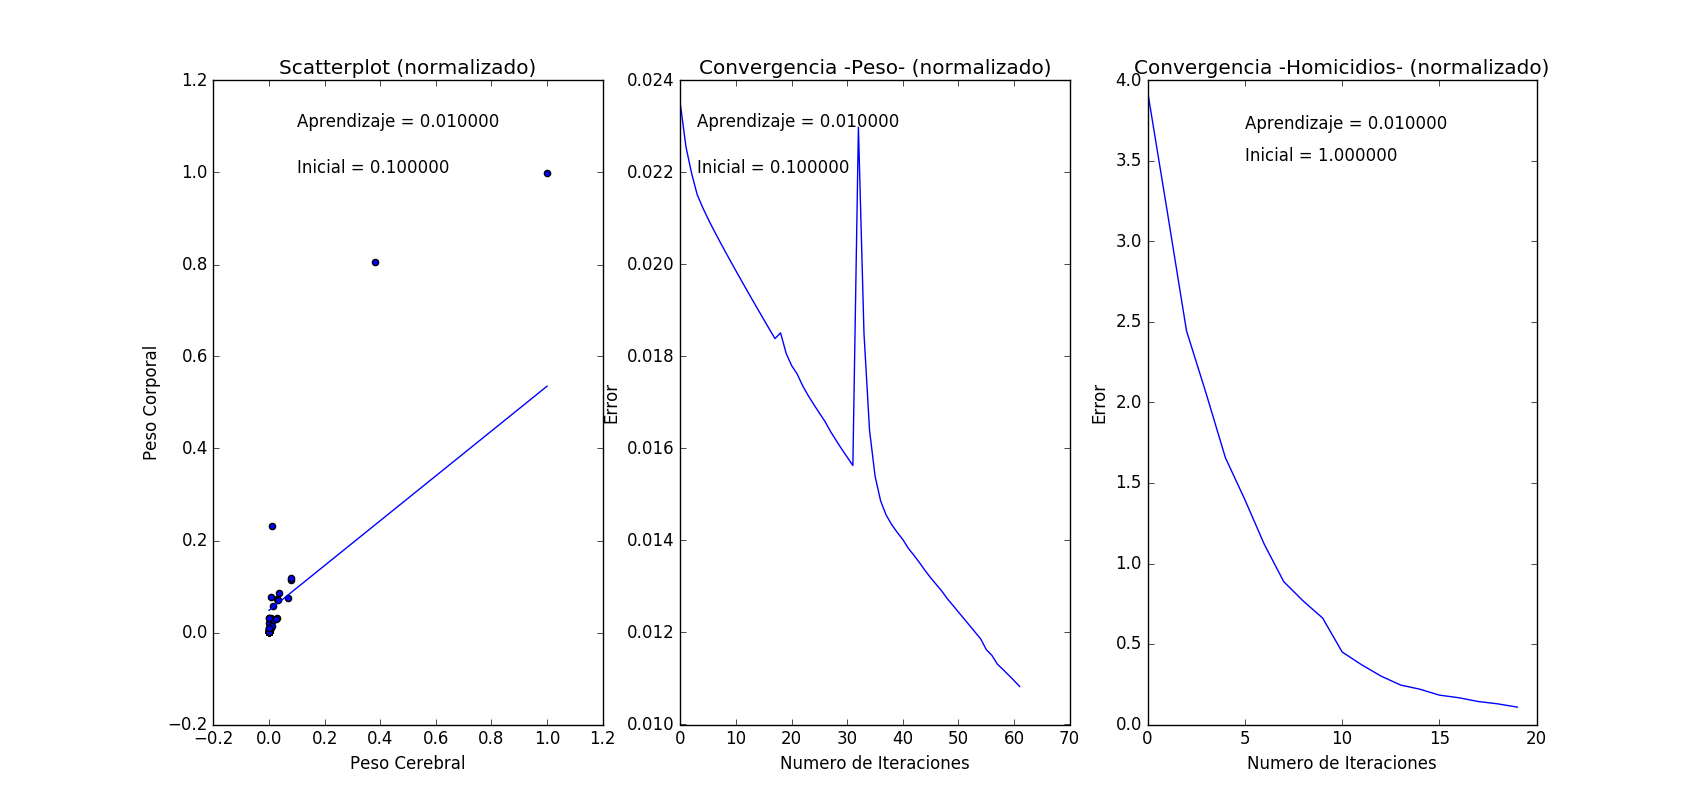
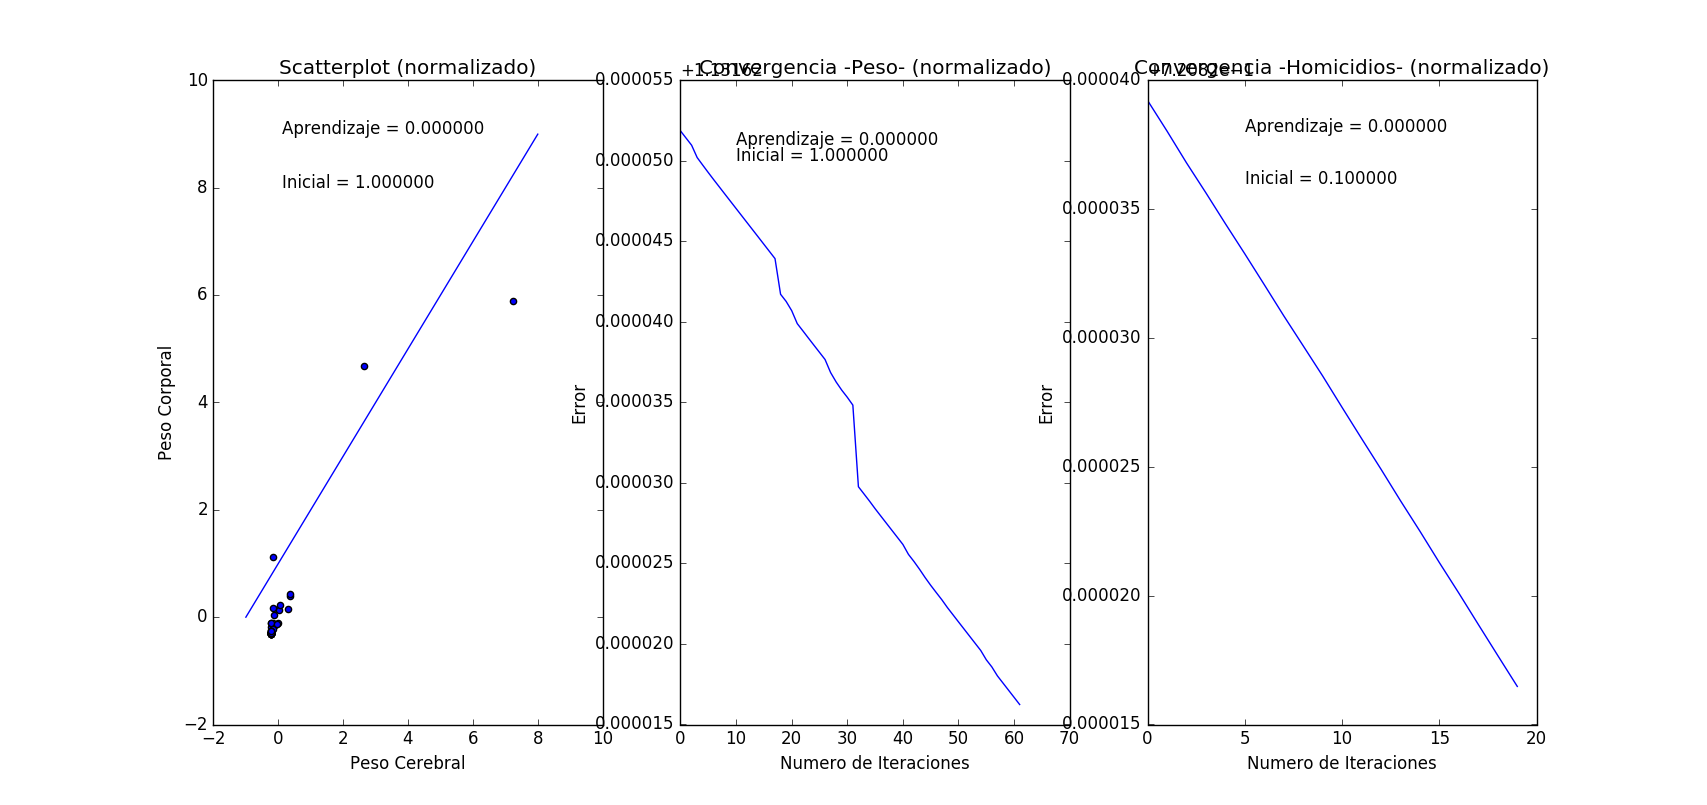
Ahora se usa otro método de normalización

diff --git a/proyecto_1/proyecto.py b/proyecto_1/proyecto.py
@@ -118,6 +118,28 @@ def regresion_lineal_multiple(dom,
     
     return (coeficientes_por_iteracion,iteraciones,errorPorIteracion)
 
+"""
+#    Funcion de Normalizacion 
+#    
+#    Objetivo: calcula la desviacion estandar y la media por columna
+#    y los usa para normalizar todos las instancias en ese feature usando la
+#    siguiente formula (vector_feature_i - promedio_feature_i) / desviacion_feature_i
+#    
+#    @matriz : matriz de numpy donde cada columna representa un feature y cada
+#              fila es una instancia
+#
+#   @return : retorna la misma matriz con las columnas normalizadas
+#
+"""
+def normalizarZ(matriz) :
+    promedio_por_columna = np.mean(matriz,axis=0)
+    desviacion_por_columna = np.std(matriz,axis=0)
+    (m,n) = matriz.shape
+    for i in range(n):
+        matriz[:,i] = (matriz[:,i] - promedio_por_columna[i])/desviacion_por_columna[i]
+    
+    return matriz
+
 
 ################################################################################
 #                                Ejecucion
@@ -138,13 +160,15 @@ if __name__ == '__main__':
                                 usecols=(1,2))
         f.close()
     
-    datos_x01 = datos_x01 / datos_x01.max(axis=0)   # Normalizacion
+    #datos_x01 = datos_x01 / datos_x01.max(axis=0)   # Normalizacion
+    datos_x01 = normalizarZ(datos_x01)
+    
     
     dominio = datos_x01[:,0]
     rango = datos_x01[:,1]
     
-    aprendizaje = 0.01
-    inicial = 0.1
+    aprendizaje = 0.00000001
+    inicial = 1.0
     coeficientes,iteraciones,errorPorIteracion = regresion_lineal_multiple( dom=dominio, 
                                                                             rango=rango,
                                                                             coeficiente_aprendizaje=aprendizaje,
@@ -158,15 +182,15 @@ if __name__ == '__main__':
     def linea(x,coef):
         return np.array([coef[0] + elem*coef[1] for elem in x])
     
-    x = np.linspace(0,1,10000)
+    x = np.linspace(-1,8,10000)
     
     plt.subplot(1, 3, 1)
     plt.scatter(dominio, rango)
     plt.title("Scatterplot (normalizado)")
     plt.xlabel("Peso Cerebral")
     plt.ylabel("Peso Corporal")
-    plt.text(0.1,1.1, 'Aprendizaje = {:f}'.format(aprendizaje))
-    plt.text(0.1,1.0, 'Inicial = {:f}'.format(inicial))
+    plt.text(0.1,9, 'Aprendizaje = {:f}'.format(aprendizaje))
+    plt.text(0.1,8, 'Inicial = {:f}'.format(inicial))
     plt.plot(x,linea(x,coeficientes[mejor_iter[0][0]]))
     
     plt.subplot(1, 3, 2)
@@ -174,8 +198,8 @@ if __name__ == '__main__':
     plt.title("Convergencia -Peso- (normalizado)")
     plt.xlabel("Numero de Iteraciones")
     plt.ylabel("Error")
-    plt.text(3,0.023, 'Aprendizaje = {:f}'.format(aprendizaje))
-    plt.text(3,0.022, 'Inicial = {:f}'.format(inicial))
+    plt.text(10,1.131671, 'Aprendizaje = {:f}'.format(aprendizaje))
+    plt.text(10,1.13167, 'Inicial = {:f}'.format(inicial))
     
     
     # Se abre el archivo de prueba limpiado
@@ -188,12 +212,13 @@ if __name__ == '__main__':
         f.close()
     
     
-    datos_x08 = datos_x08 / datos_x08.max(axis=0)   # Normalizacion
+    #datos_x08 = datos_x08 / datos_x08.max(axis=0)   # Normalizacion
+    datos_x08 = normalizarZ(datos_x08)
     
     dominio2 = datos_x08[:,0:3]
     rango2 = datos_x08[:,3]
-    aprendizaje2 = 0.01
-    inicial2 = 1.0
+    aprendizaje2 = 0.0000001
+    inicial2 = 0.1
     coeficientes2,iteraciones2,errorPorIteracion2 = regresion_lineal_multiple( dom=dominio2, 
                                                                             rango=rango2,
                                                                             coeficiente_aprendizaje=aprendizaje2,
@@ -208,8 +233,8 @@ if __name__ == '__main__':
     plt.title("Convergencia -Homicidios- (normalizado)")
     plt.xlabel("Numero de Iteraciones")
     plt.ylabel("Error")
-    plt.text(5,3.7, 'Aprendizaje = {:f}'.format(aprendizaje2))
-    plt.text(5,3.5, 'Inicial = {:f}'.format(inicial2))
+    plt.text(5,0.720858, 'Aprendizaje = {:f}'.format(aprendizaje2))
+    plt.text(5,0.720856, 'Inicial = {:f}'.format(inicial2))
     
     plt.show()
 
